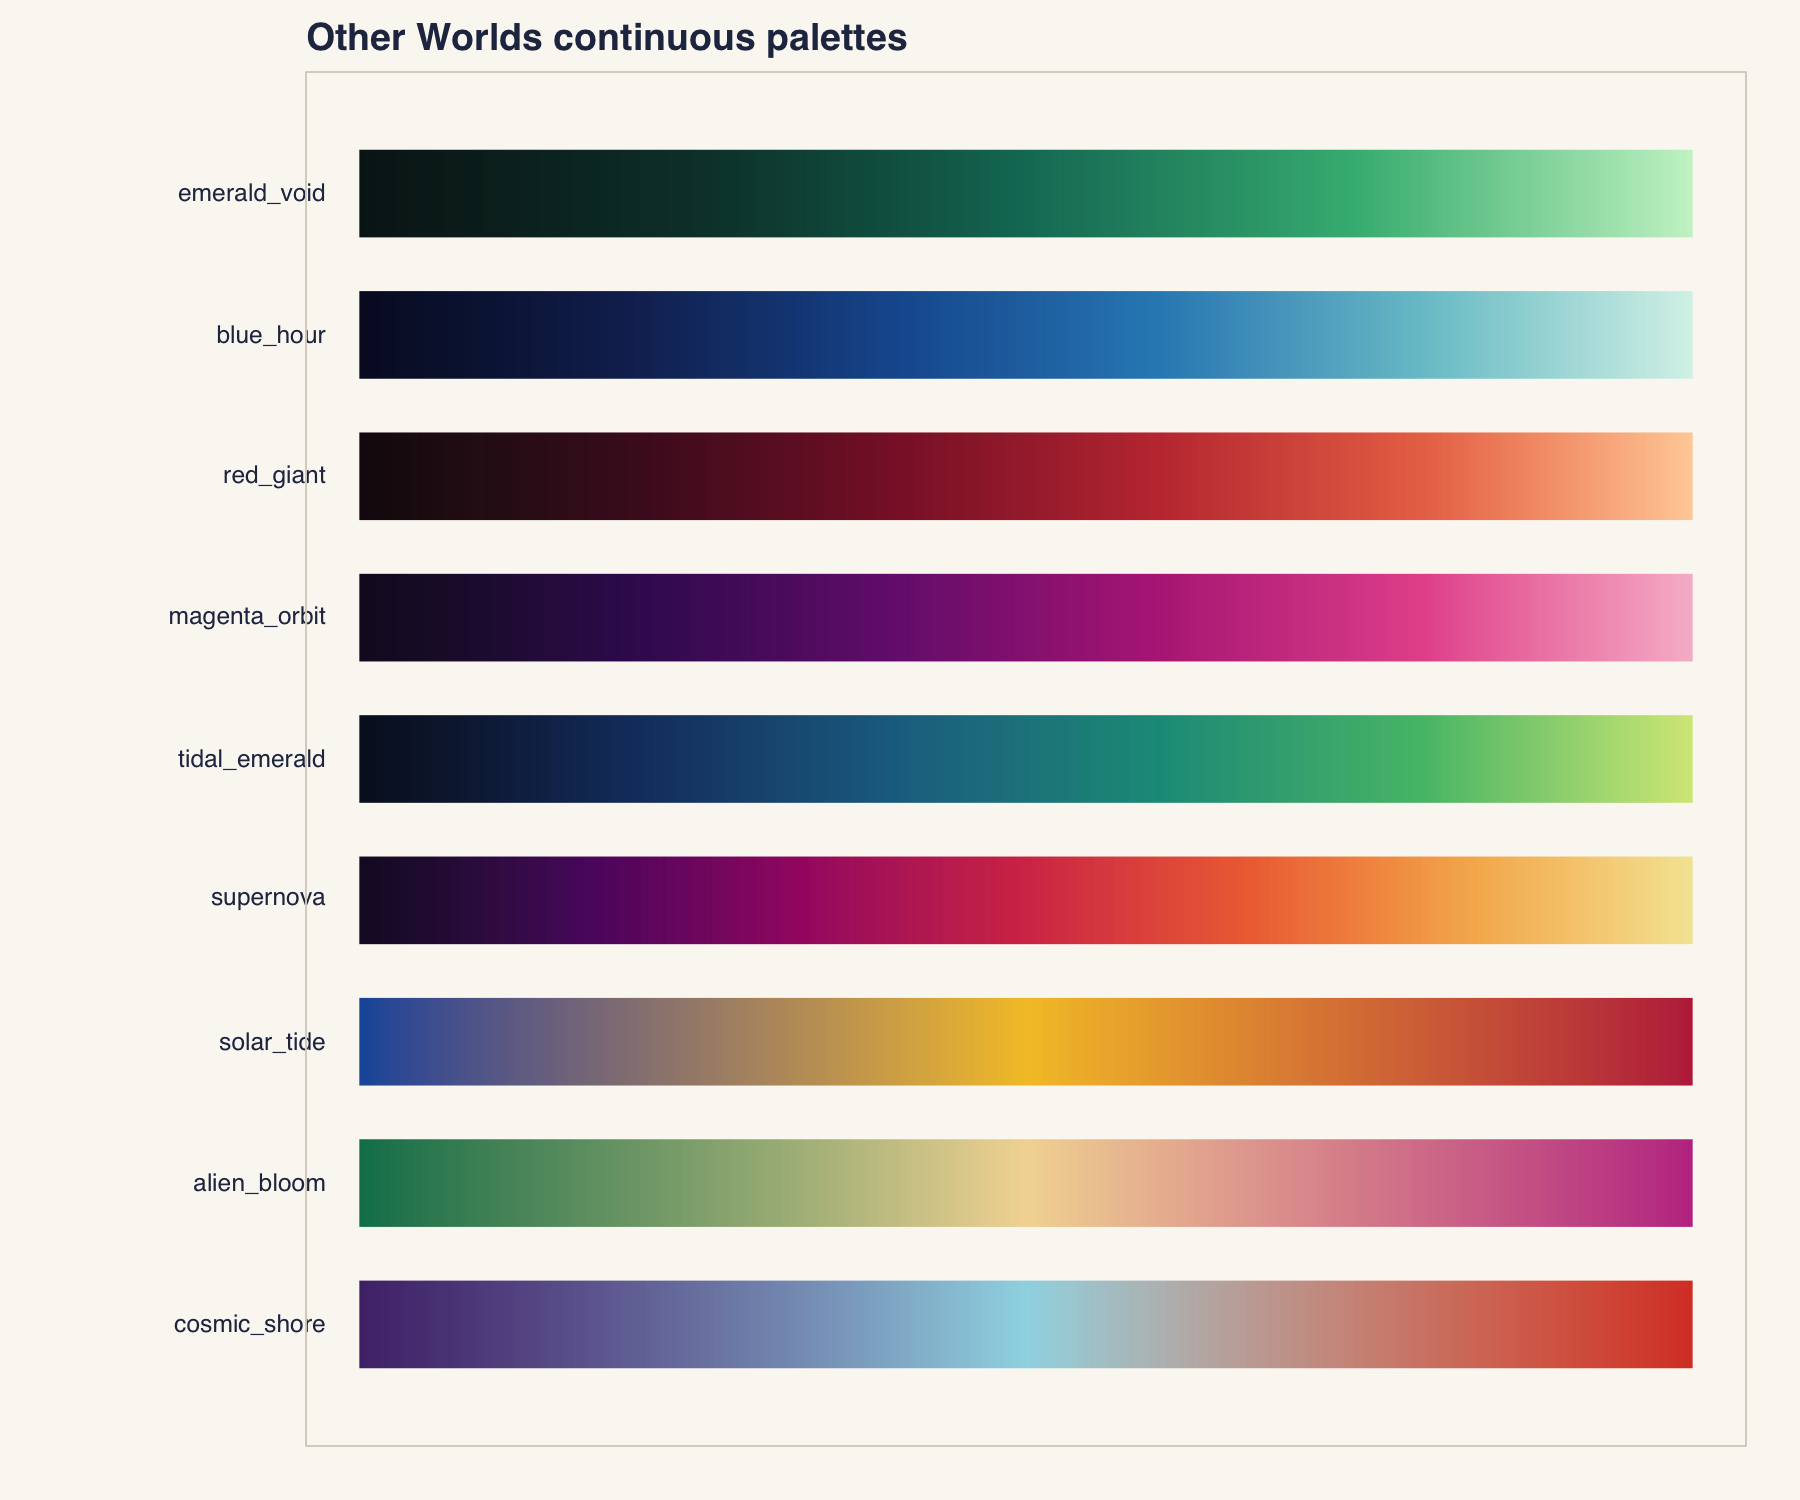
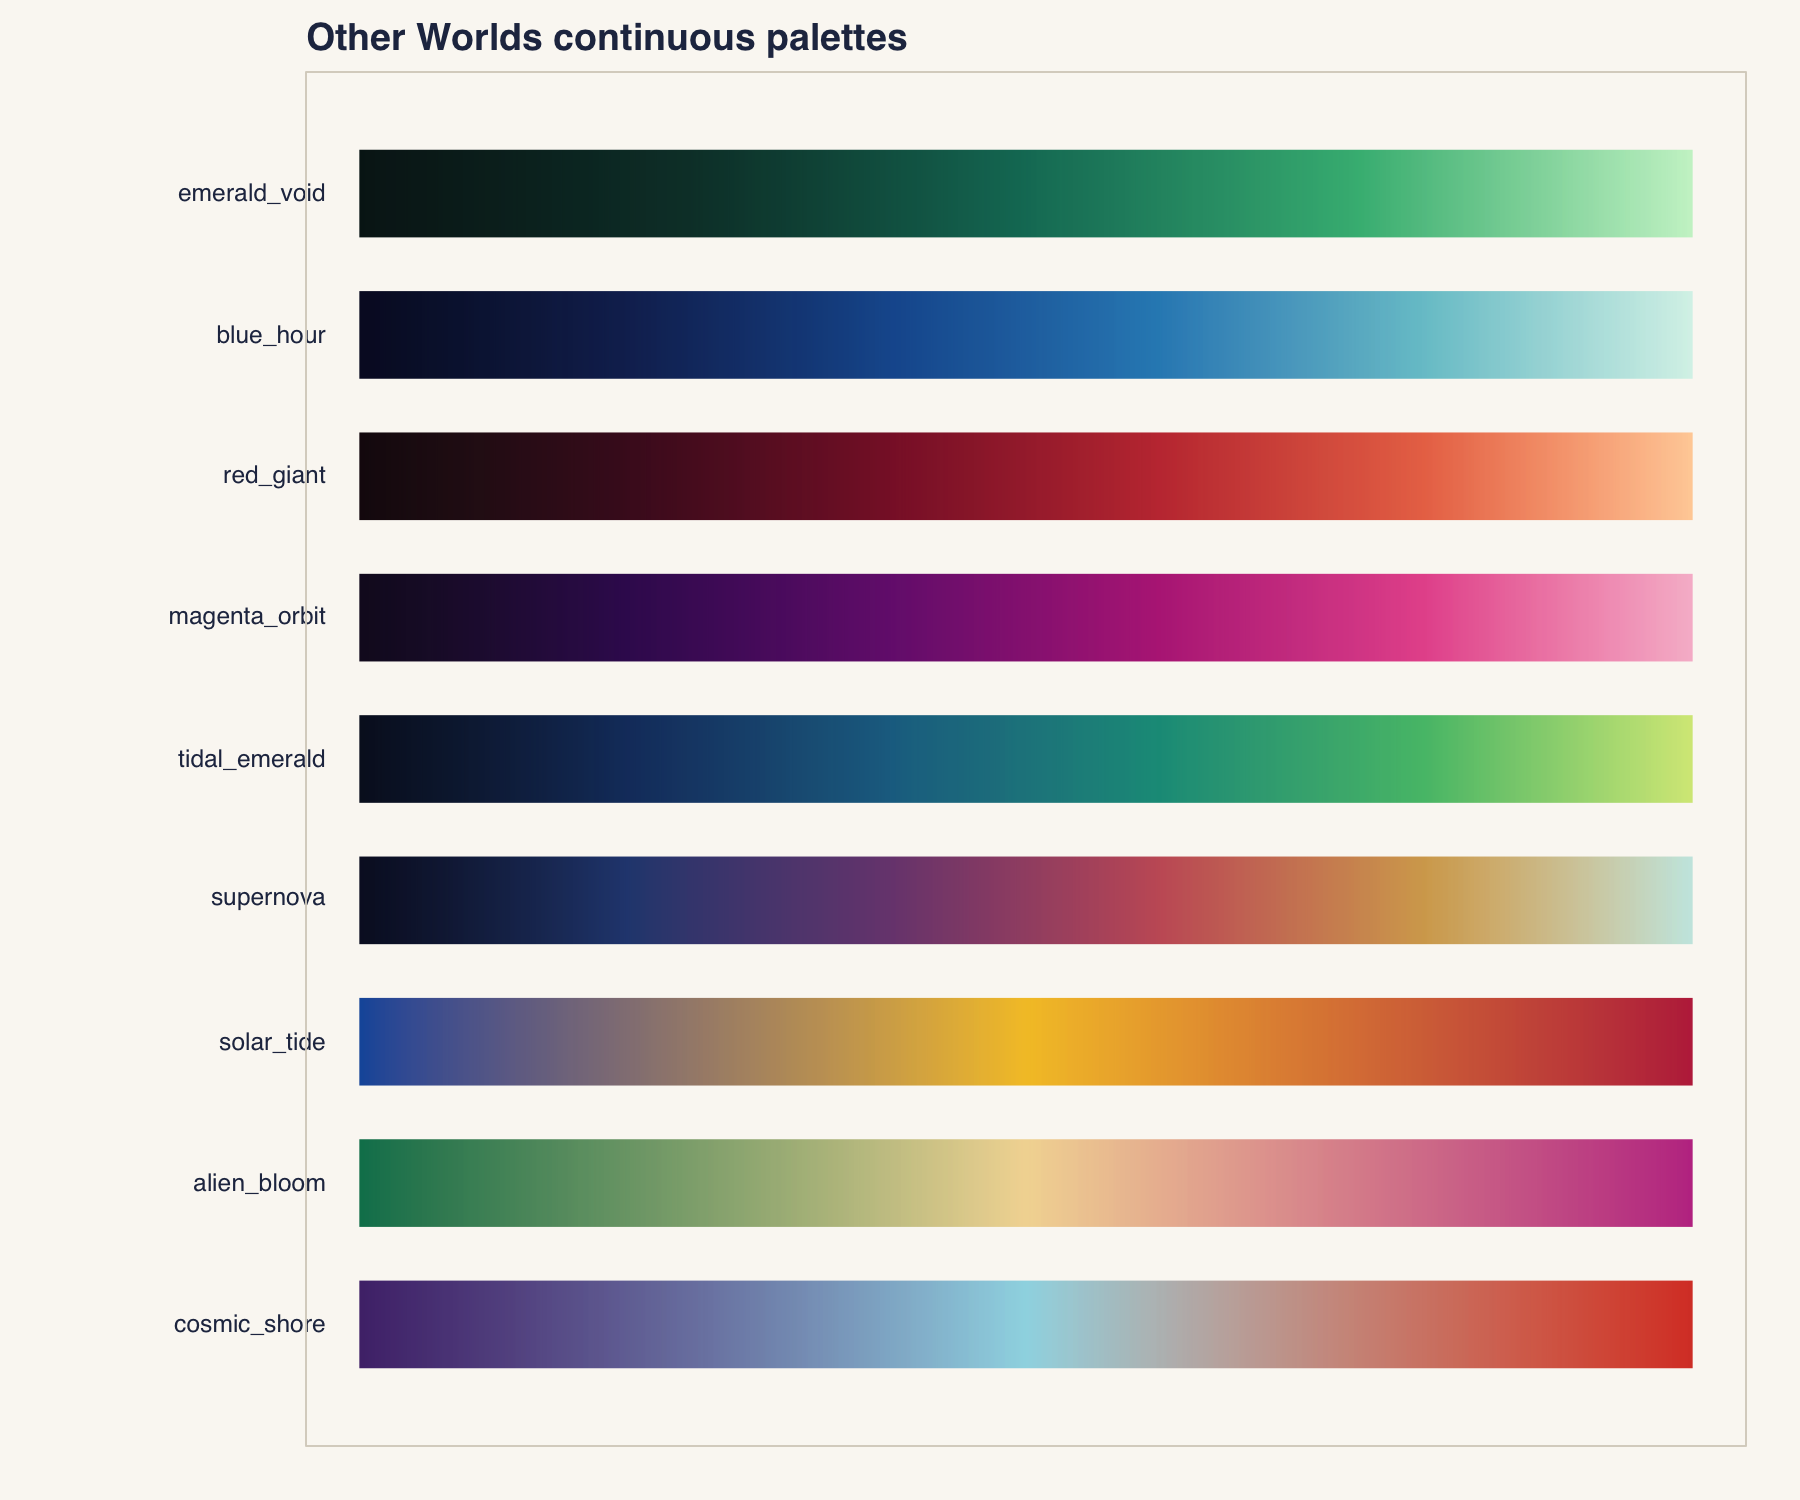
Redesign supernova palette

Changed region(s): [[0.2489, 0.552, 0.9644, 0.644]]

diff --git a/README.md b/README.md
@@ -64,7 +64,8 @@ of perceptually smooth scientific colour maps.
 - `red_giant` — oxblood, nebula red, and warm stellar light.
 - `magenta_orbit` — deep violet through ion pink.
 - `tidal_emerald` — blue-black through tidal blue and emerald to alien light.
-- `supernova` — plum and magenta through red, solar gold, and a pale star core.
+- `supernova` — shock blue through dusty violet, nebula coral, and ejecta gold
+  to an icy ionized core.
 
 Three additional palettes are designed for heatmaps and centered data. Each
 passes through a bright middle colour drawn from the paintings rather than a
